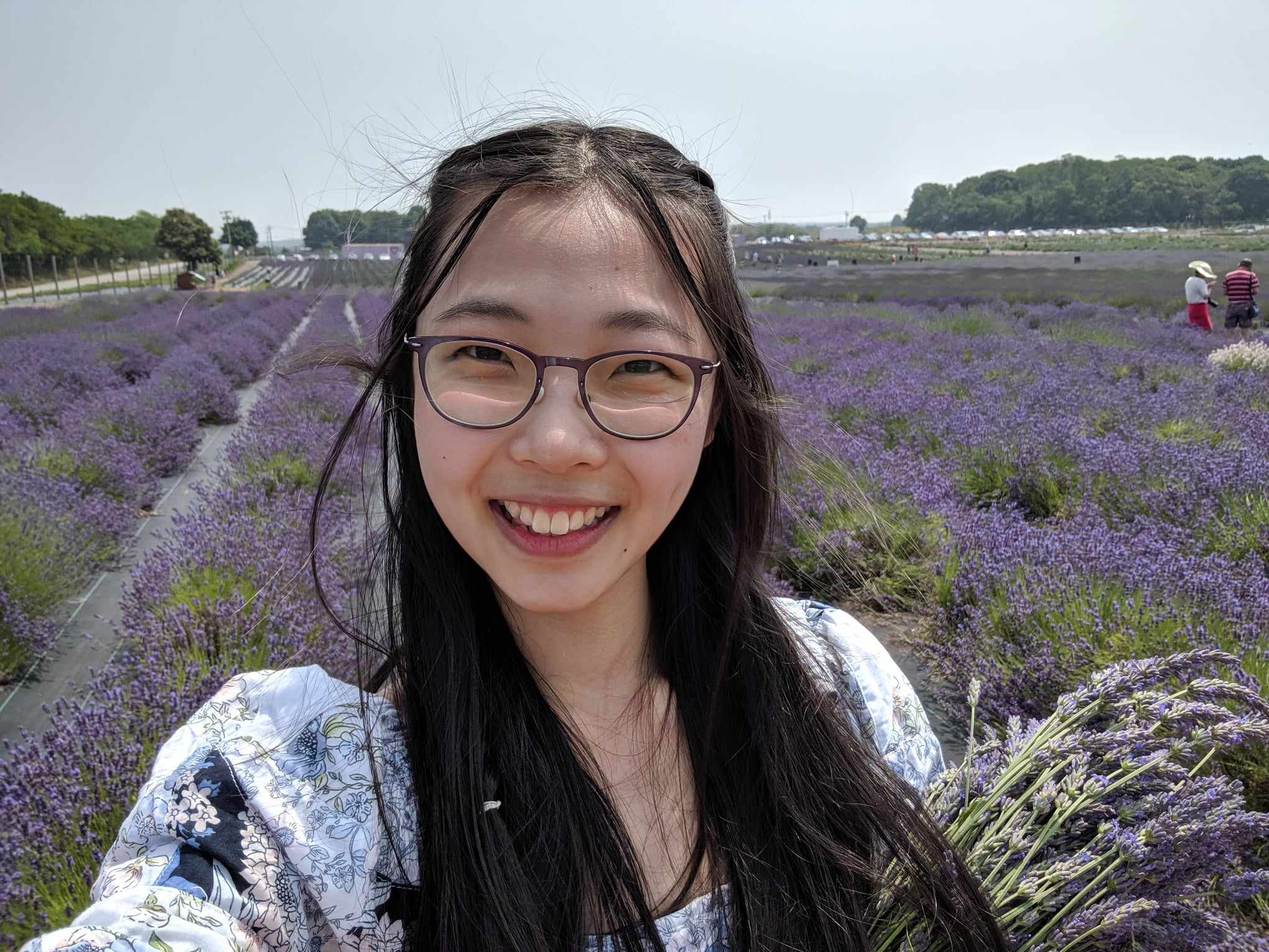
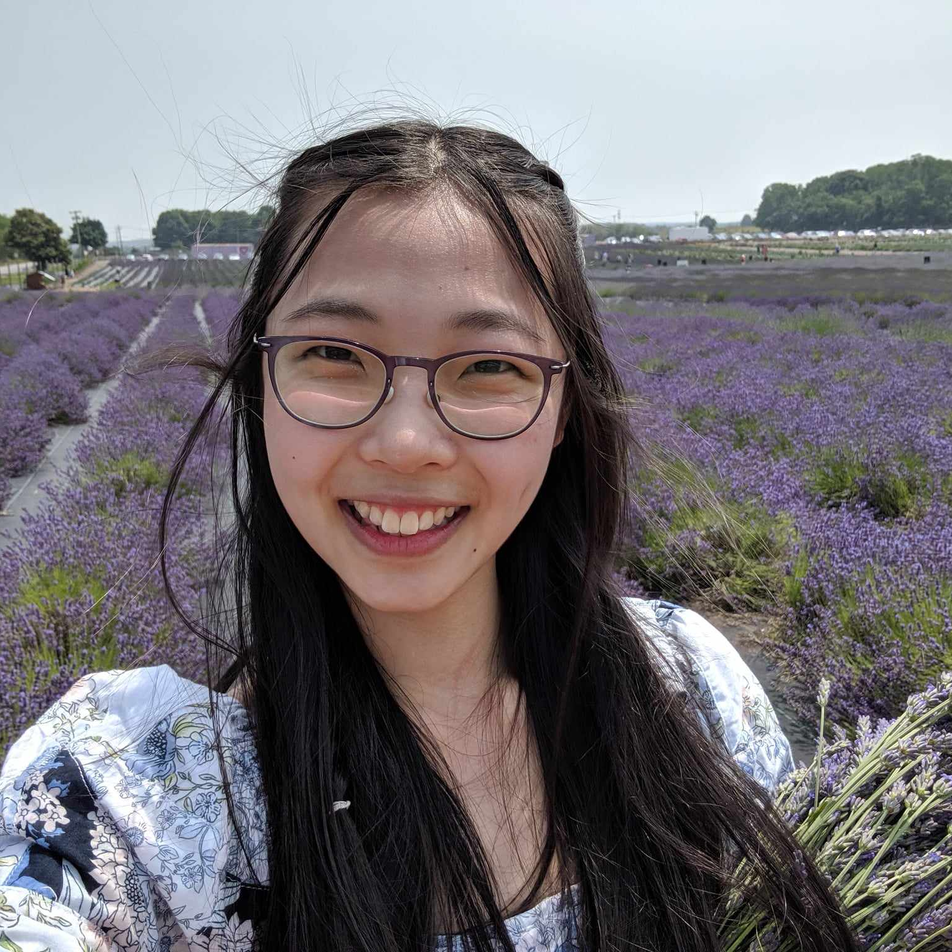
added graphic to home page, updated image sizes on about page

diff --git a/src/routes/about/+page.svelte b/src/routes/about/+page.svelte
@@ -66,14 +66,14 @@
 <div class="container grid grid-cols-1 gap-x-8 xl:pb-16 xl:grid-cols-3">
 
 	<div>
-		<img type="image/webp" srcset={mai} alt="Mai" height="400" width="1000" />
+		<img type="image/webp" srcset={mai} alt="Mai" height="1000" width="1000" />
 		<p class="pt-4 font-serif text-center text-4xl">Mai Tran</p>
 		<p class="pt-4 font-semibold pb-2 text-center text-xl">Executive Director</p>
 		<p class="pb-4 text-center text-xl">Junior at Stuyvesant High School</p>
 	</div>
 
 	<div>
-		<img type="image/webp" srcset={jessica} alt="Jessica" height="1100" width="1000" />
+		<img type="image/webp" srcset={jessica} alt="Jessica" height="1000" width="1000" />
 		<p class="pt-4 font-serif text-center text-4xl">Jessica Liu</p>
 		<p class="pt-4 font-semibold pb-2 text-center text-xl">Executive Director</p>
 		<p class="pb-4 text-center text-xl">Senior at Stuyvesant High School</p>
@@ -89,14 +89,14 @@
 	</div>
 
 	<div>
-		<img type="image/webp" srcset={jenny} alt="Jenny" height="600" width="1000" />
+		<img type="image/webp" srcset={jenny} alt="Jenny" height="1000" width="1000" />
 		<p class="pt-4 font-serif text-center text-4xl">Jenny Tan</p>
 		<p class="pt-4 font-semibold pb-2 text-center text-xl">Director of Social Media</p>
 		<p class="pb-4 text-center text-xl">Junior at Stuyvesant High School</p>
 	</div>
 
 	<div>
-		<img type="image/webp" srcset={shahana} alt="Shahana" height="800" width="1000"/>
+		<img type="image/webp" srcset={shahana} alt="Shahana" height="1000" width="1000"/>
 		<p class="pt-4 font-serif text-center text-4xl">Shahana Ferdous</p>
 		<p class="pt-4 font-semibold pb-2 text-center text-xl">Director of Bangladeshi Outreach</p>
 		<p class="pb-4 text-center text-xl">Junior at Stuyvesant High School</p>

diff --git a/src/routes/+page.svelte b/src/routes/+page.svelte
@@ -8,6 +8,7 @@
 	import unity from '$lib/img/graphics/unity.png?w=500;700;896&webp&srcset';
 	import app from '$lib/img/graphics/appreciation.png?w=500;700;896&webp&srcset';
 	import culture from '$lib/img/graphics/culture.png?w=500;700;896&webp&srcset';
+	import stats from '$lib/img/graphics/stats.png';
 </script>
 
 <Hero />
@@ -43,6 +44,10 @@
 			Want to make friends across the world? We got you. Bridging Seas offers a pen pal program. Asian students all over the word regardless of nationality will be matched with a pen pal of the same ethnicity. Make new friends and get to know a world outside of your own!
 		</p>
 	</div>
+</div>
+
+<div class="mx-10">
+	<img type="image/webp" alt="stats" srcset={stats} />
 </div>
 
 <div class="container grid place-items-center">
